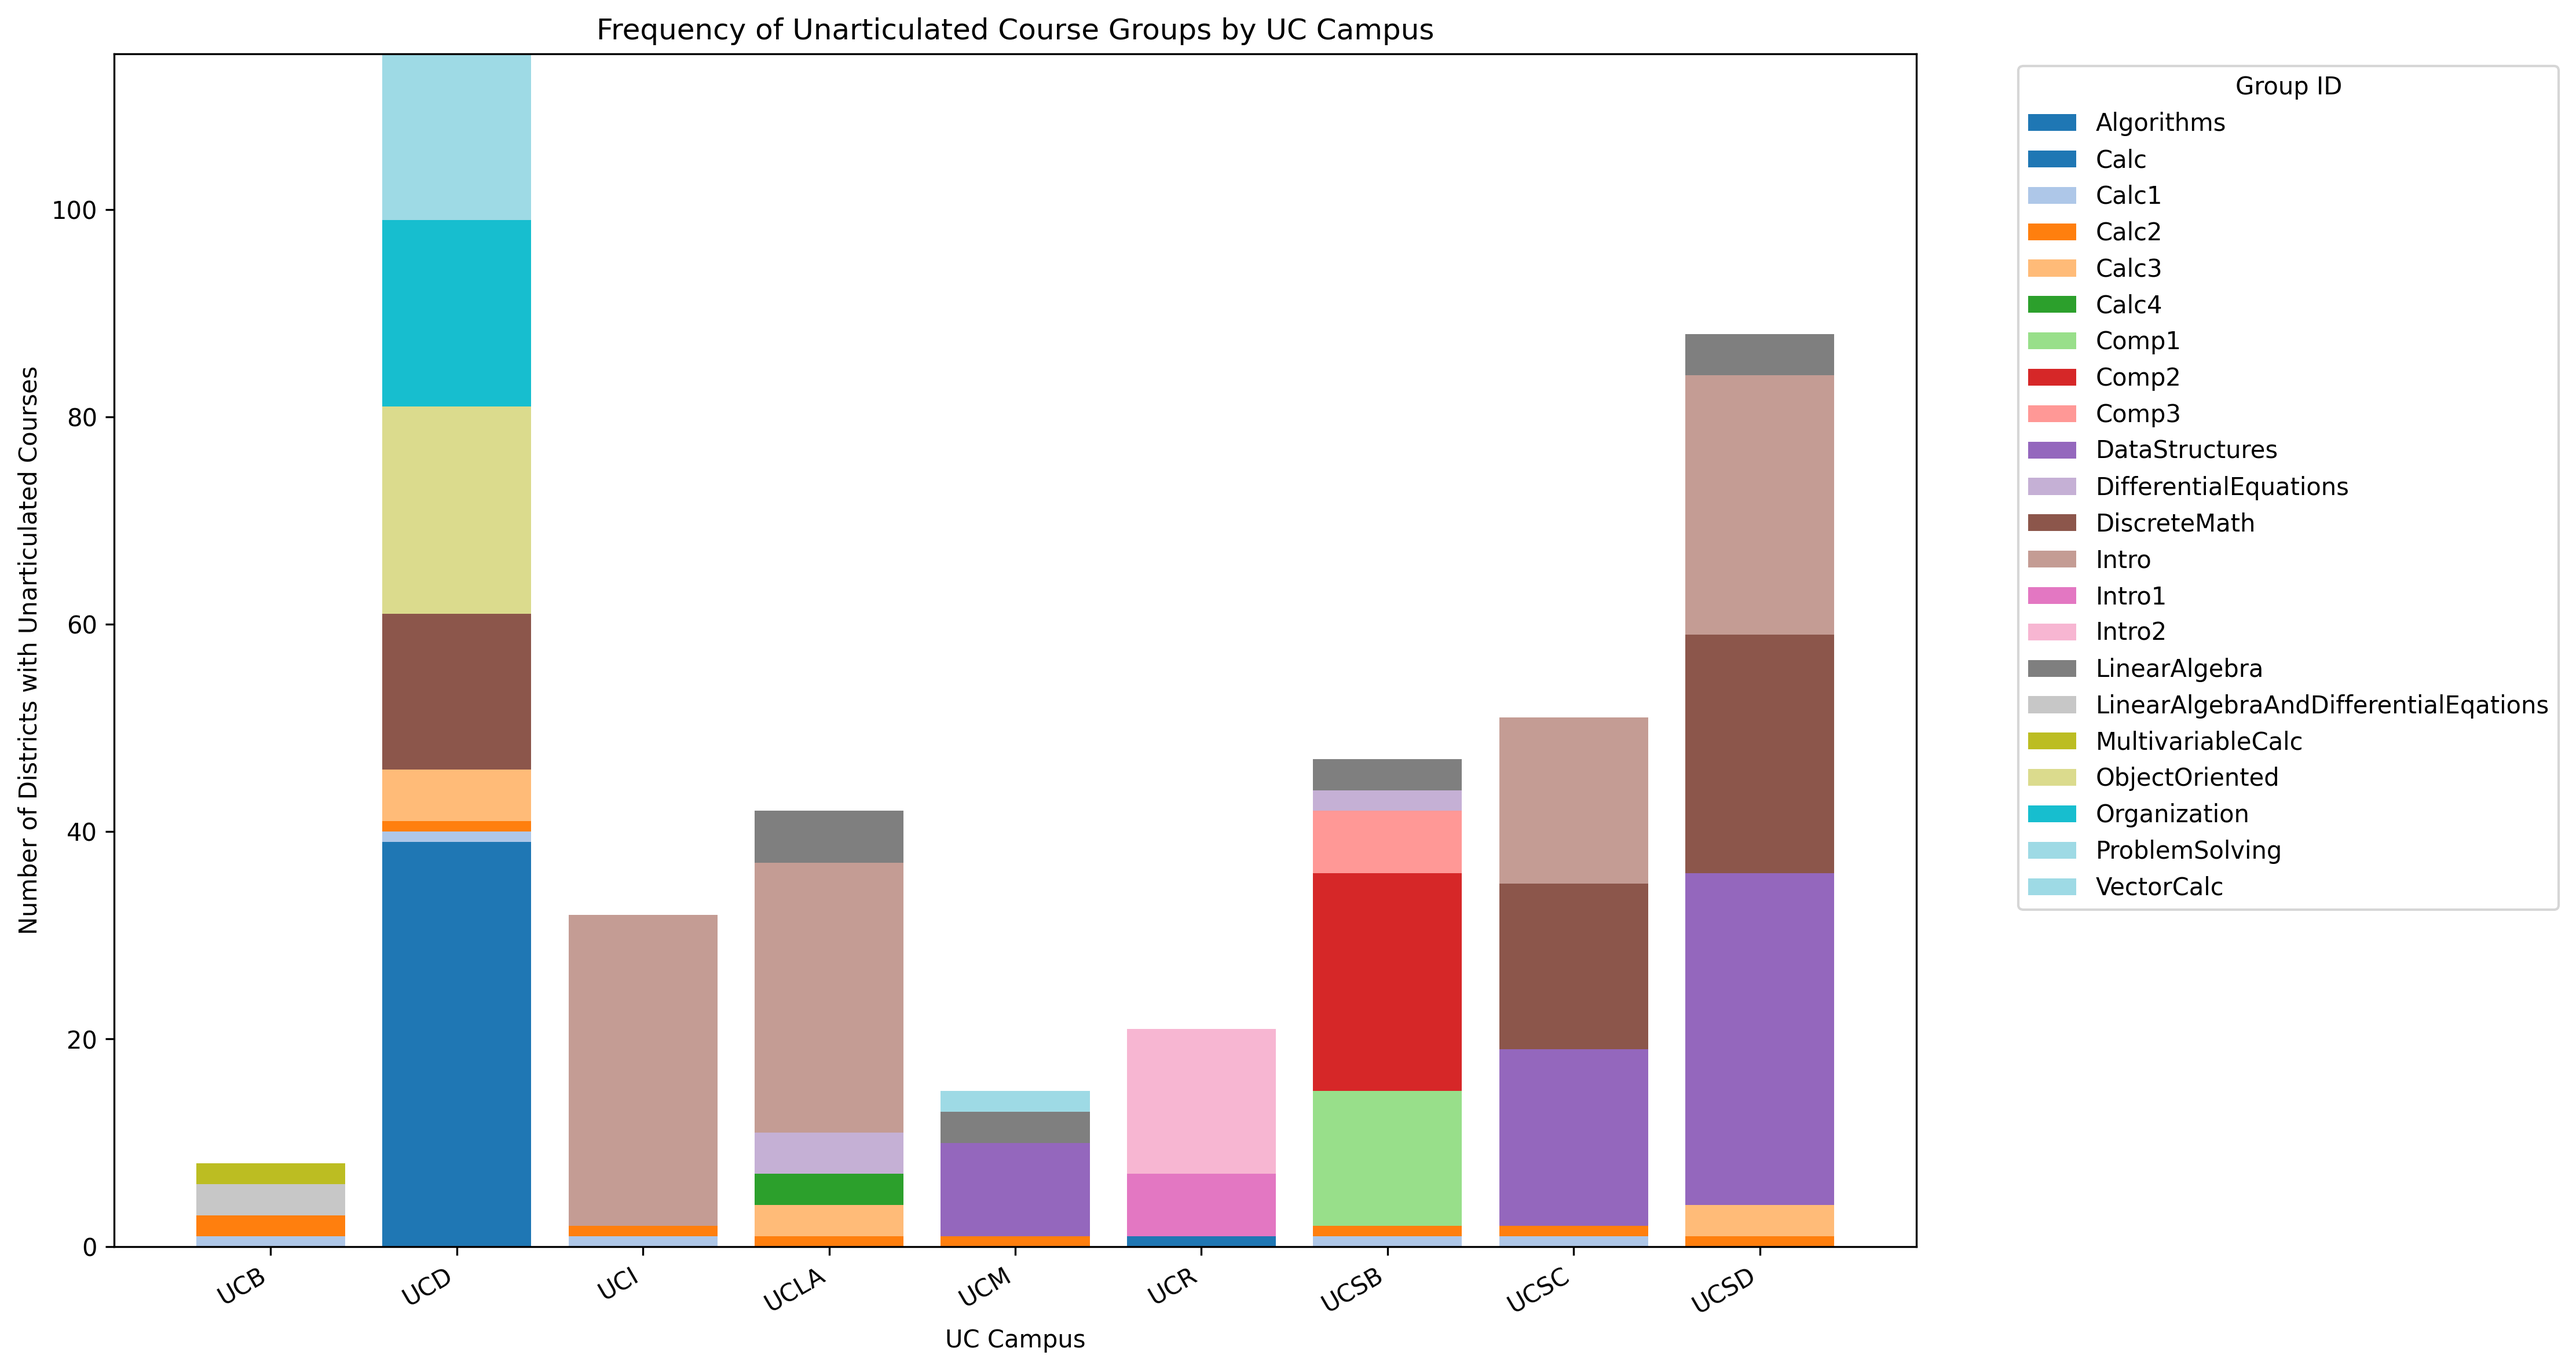
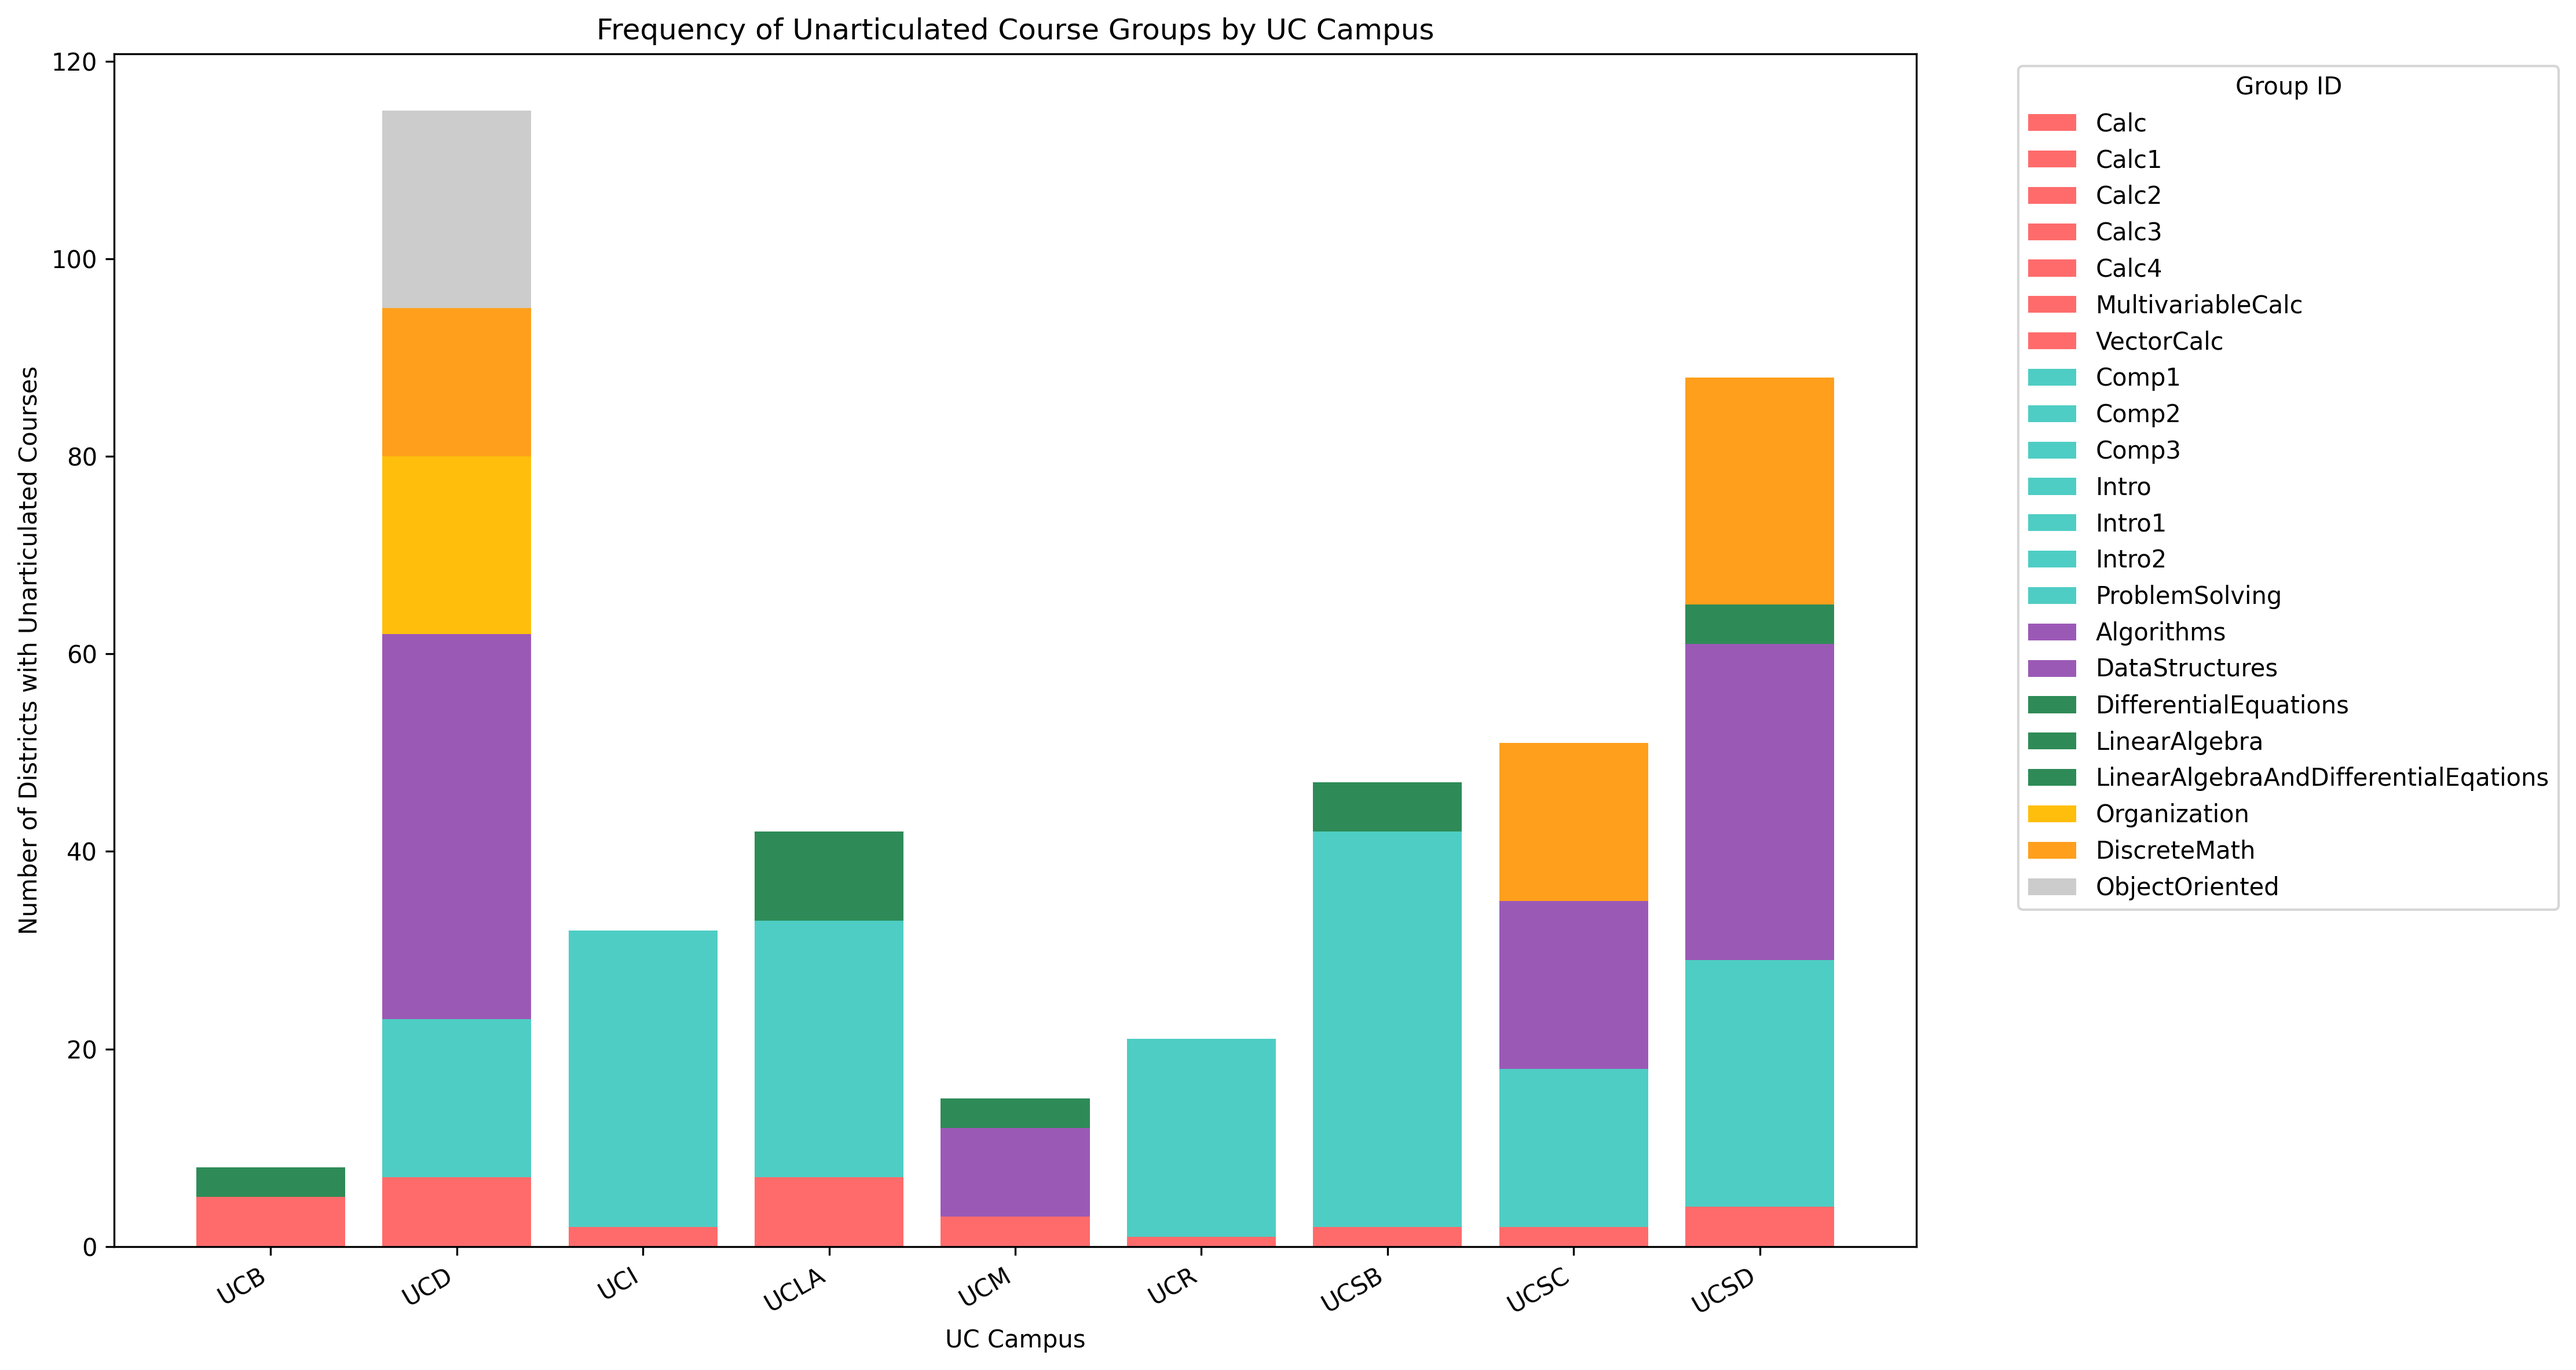
updated group frequecy analysis

Changed region(s): [[0.0625, 0.0309, 0.7188, 0.9256], [0.7812, 0.0617, 0.9688, 0.6788]]

diff --git a/question_2-3/district-level/detailed_district_least_options.py b/question_2-3/district-level/detailed_district_least_options.py
@@ -188,7 +188,7 @@ def create_heatmap(data):
 def create_group_frequency_graph(data):
     """
     Creates a segmented bar graph showing the frequency of each Group ID
-    across UC campuses.
+    across UC campuses with simplified color scheme for related courses.
     """
     plt.figure(figsize=(15, 8))
     
@@ -219,20 +219,76 @@ def create_group_frequency_graph(data):
         all_groups.update(counts.keys())
     all_groups = sorted(list(all_groups))
     
+    # Define color groups for related courses
+    color_groups = {
+        'calculus': {
+            'color': '#FF6B6B',  # Red
+            'patterns': ['calc', 'vector', 'multivar']
+        },
+        'intro_programming': {
+            'color': '#4ECDC4',  # Teal
+            'patterns': ['intro', 'comp', 'problem']
+        },
+        'data_structures': {
+            'color': '#9B59B6',  # Purple
+            'patterns': ['data', 'struct', 'algorithm']
+        },
+        'math_advanced': {
+            'color': '#2E8B57',  # Sea Green
+            'patterns': ['linear', 'differential']
+        },
+        'computer_systems': {
+            'color': '#FFBE0B',  # Gold
+            'patterns': ['organ', 'system', 'computer']
+        },
+        'discrete_math': {
+            'color': '#FF9F1C',  # Orange
+            'patterns': ['discrete']
+        },
+    }
+    
+    # Group courses by their color category
+    color_grouped_courses = {category: [] for category in color_groups.keys()}
+    ungrouped = []
+    
+    for group in all_groups:
+        group_lower = group.lower()
+        assigned = False
+        for category, info in color_groups.items():
+            if any(pattern in group_lower for pattern in info['patterns']):
+                color_grouped_courses[category].append(group)
+                assigned = True
+                break
+        if not assigned:
+            ungrouped.append(group)
+    
     # Prepare data for stacked bar plot
     bottom = np.zeros(len(uc_names))
     
-    # Create color map - Updated to use recommended approach
-    colors = plt.colormaps['tab20'](np.linspace(0, 1, len(all_groups)))
+    # Plot each category's groups together
+    for category, groups in color_grouped_courses.items():
+        if not groups:  # Skip empty categories
+            continue
+        color = color_groups[category]['color']
+        for group in sorted(groups):  # Sort groups within each category
+            heights = []
+            for uc in uc_names:
+                count = uc_group_counts[uc].get(group, 0)
+                heights.append(count)
+            
+            plt.bar(uc_names, heights, bottom=bottom, 
+                   label=group, color=color)
+            bottom += heights
     
-    # Plot each Group ID segment
-    for i, group in enumerate(all_groups):
+    # Plot ungrouped courses last
+    for group in sorted(ungrouped):
         heights = []
         for uc in uc_names:
             count = uc_group_counts[uc].get(group, 0)
             heights.append(count)
         
-        plt.bar(uc_names, heights, bottom=bottom, label=group, color=colors[i])
+        plt.bar(uc_names, heights, bottom=bottom, 
+               label=group, color='#CCCCCC')  # Default gray
         bottom += heights
     
     plt.title('Frequency of Unarticulated Course Groups by UC Campus')
